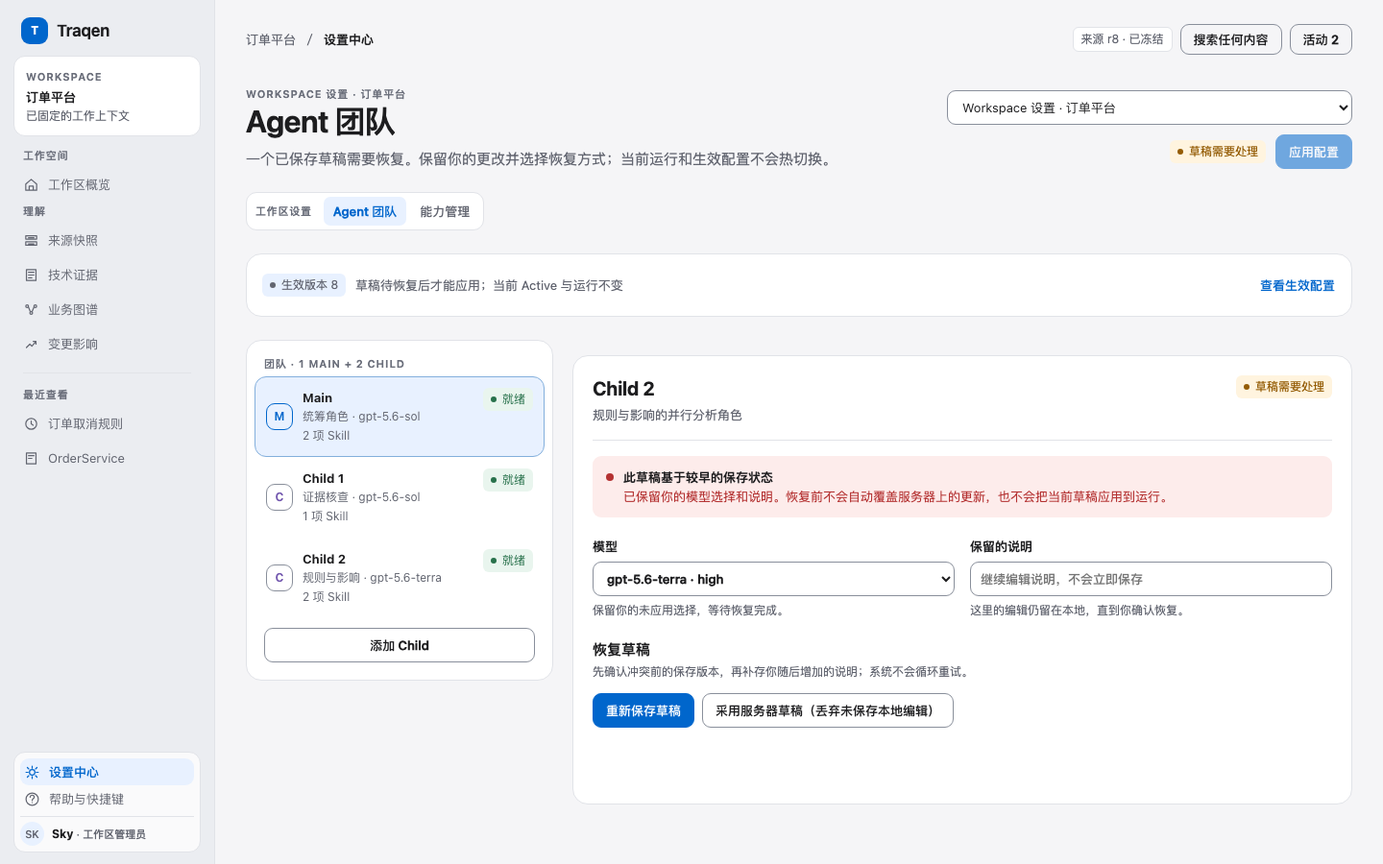
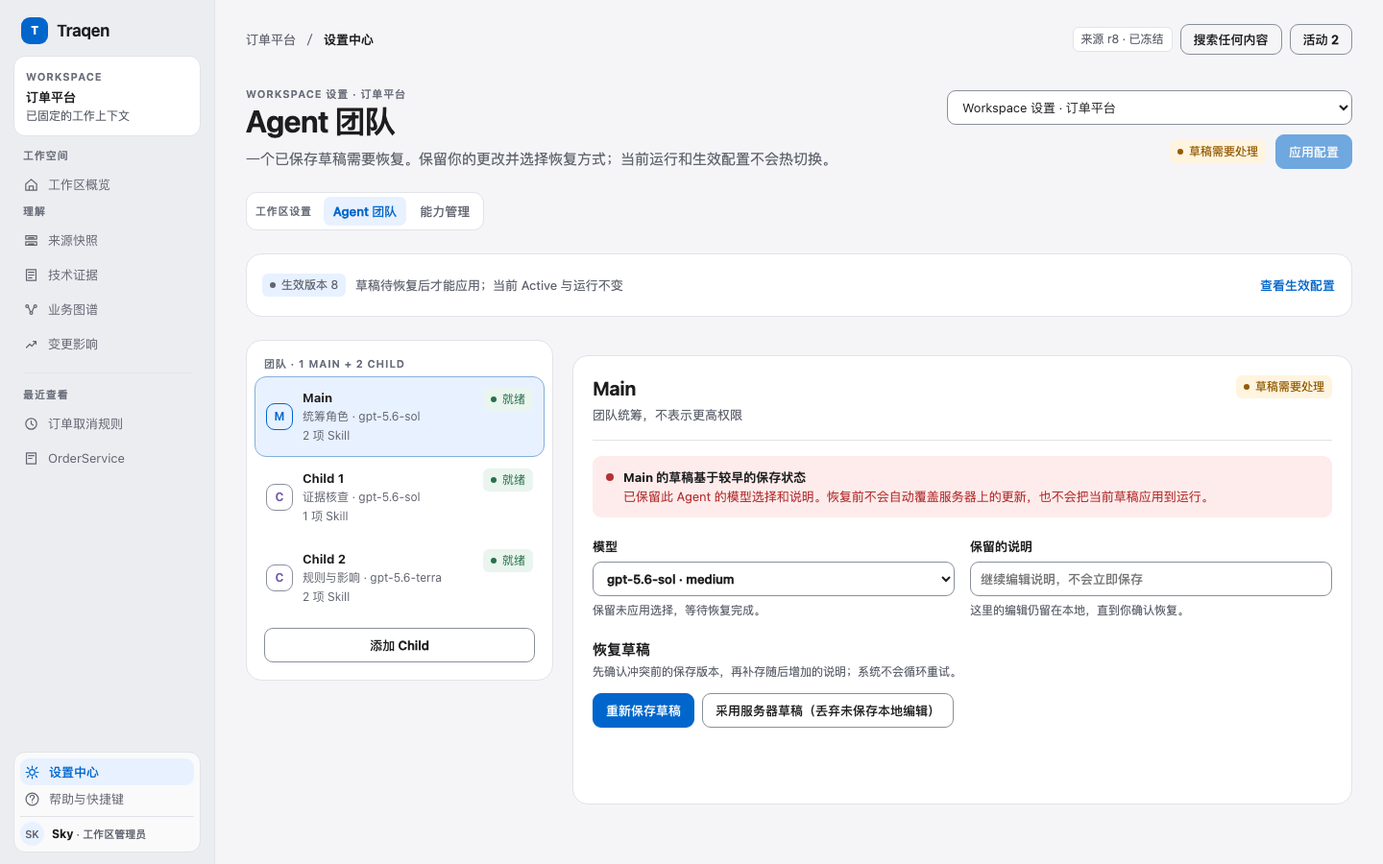
fix(f006): preserve conflict state across read-only views
Why: unresolved fixture conflicts must keep their selected-agent context, recovery data, and Apply guard through version, capability, team, and refresh paths.

diff --git a/docs/design/F006-workspace-capability-settings/ux-v1.0/assets/prototype.html b/docs/design/F006-workspace-capability-settings/ux-v1.0/assets/prototype.html
@@ -163,17 +163,17 @@
       function teamCards() { return `<section class="panel agent-list"><div class="agent-section-title">团队 · 1 Main + 2 Child</div>${Object.entries(agentConfigs).map(([id, base]) => { const agent = agentConfig(id); const kind = agent.readiness === '就绪' ? 'success' : 'warning'; return `<button class="agent-card ${state.selected === id ? 'selected':''}" data-agent="${id}" data-skill-count="${agent.skills.length}" ${id === 'child-2' ? 'data-testid="agent-child-2"':''}><span class="agent-icon">${id === 'main'?'M':'C'}</span><span><b>${agent.name}</b><small>${agent.role} · ${agent.model}</small><small>${agent.skills.length} 项 Skill</small></span>${pill(kind, agent.readiness)}</button>`; }).join('')}<button class="btn" style="margin:10px;width:calc(100% - 20px)">添加 Child</button></section>`; }
       function inspector() { const agent = agentConfig(); const isChild2 = state.selected === 'child-2'; const hasLegacyIssue = state.selected === 'child-1' && state.legacyIssue; const skillDescription = { 'repository-map': ['已挂载执行器 · 仅订单平台', 'Workspace 可用性是上限，不会自动配给其他 Agent。'], 'impact-summary': ['显式授权；创建本地能力不会自动勾选这里。', '本地能力可用不等于任何 Agent 已获授权。'], 'semantic-review': ['全局继承；若失效仍可在此撤销。', '生命周期变更会在这里标记为需要处理。'], 'legacy-lint': ['执行器映射已缺失；这是可撤销的历史授权。', '撤销只会修改 Child 1 的草稿授权。'] }; return `<section class="panel detail" aria-label="${agent.name} 配置详情"><div class="detail-head"><div><h2>${agent.name}</h2><p>${isChild2 ? '规则与影响的并行分析角色' : state.selected === 'main' ? '团队统筹，不表示更高权限' : '证据核查的并行分析角色'}</p></div>${pill(agent.readiness === '就绪' ? 'success':'warning', agent.readiness)}</div>${hasLegacyIssue ? `<div class="notice danger" data-testid="legacy-authorization" style="margin-top:16px"><span class="dot"></span><div><strong>legacy-lint 授权需要处理</strong><br>该执行器映射已不可用；历史授权仍在 Child 1 草稿中，必须在此明确撤销或替换。</div><button class="btn danger" id="revoke-legacy" style="margin-left:auto">撤销授权</button></div>` : ''}<div class="fields"><label>模型 <select id="agent-model" data-testid="agent-model"><option ${agent.model === 'gpt-5.6-sol'?'selected':''}>gpt-5.6-sol · medium</option><option ${agent.model === 'gpt-5.6-terra'?'selected':''}>gpt-5.6-terra · high</option></select><span>经 CLI 账号 codex-team 已验证；不回退到隐式默认模型。</span></label><label>账号状态 <input value="codex-team · CLI 已登录" readonly><span>账号登录与模型 pin 会在应用前由服务端复核；这里不展示认证凭据。</span></label></div><div class="grant-block"><h3>显式 Skill 授权</h3><p>Workspace 可用性是上限；新 Child 不复制其他 Agent 的授权。</p><div class="grant-list">${['repository-map','impact-summary','semantic-review','legacy-lint'].map(skill => `<label class="check-row"><input type="checkbox" ${agent.skills.includes(skill) ? 'checked':''}><span><b>${skill}</b><br>${skillDescription[skill][0]}</span></label>`).join('')}</div></div></section>`; }
       function recoveryNotice() { if (!state.recovery) return ''; const server = state.recovery === 'server'; return `<div class="notice success" data-testid="recovery-success" style="margin-top:16px"><span class="dot"></span><div><strong>${server ? '已采用服务器草稿，可以继续编辑并应用' : '草稿已恢复，可以继续编辑并应用'}</strong><br>${server ? '未保存的本地 M3 说明已按你的选择丢弃；没有新增业务写入。' : 'M2 已确认，M3 已恰好补存一次；当前运行和已生效版本未改变。'}</div></div>`; }
-      function team() { return `${head('Workspace 设置 · 订单平台', 'Agent 团队', '正在编辑草稿。自动保存与“应用配置”是两件事；当前运行不会热切换。', `${scope()}${pill('success','草稿已保存 · 10:42').replace('class="badge success"', 'class="badge success" data-testid="draft-saved"')}<span class="apply-context"><span class="apply-scope" data-testid="apply-scope">仅订单平台；仅影响之后的新分析，不改变其他 Workspace 或已有运行。</span><button class="btn primary" id="apply" data-testid="apply-config">应用配置</button></span>`)}${workspaceSettingsNav('team')}${recoveryNotice()}<div class="summary-row"><div class="summary-copy">${pill('blue','生效版本 8')}<span>今天 10:30 · 有 3 项未应用更改</span></div><button class="btn link" data-scene="versions" data-testid="versions-entry">查看生效配置</button></div><section class="content team-grid">${teamCards()}${inspector()}</section>`; }
+      function team() { if (state.conflict) return conflict(); return `${head('Workspace 设置 · 订单平台', 'Agent 团队', '正在编辑草稿。自动保存与“应用配置”是两件事；当前运行不会热切换。', `${scope()}${pill('success','草稿已保存 · 10:42').replace('class="badge success"', 'class="badge success" data-testid="draft-saved"')}<span class="apply-context"><span class="apply-scope" data-testid="apply-scope">仅订单平台；仅影响之后的新分析，不改变其他 Workspace 或已有运行。</span><button class="btn primary" id="apply" data-testid="apply-config">应用配置</button></span>`)}${workspaceSettingsNav('team')}${recoveryNotice()}<div class="summary-row"><div class="summary-copy">${pill('blue','生效版本 8')}<span>今天 10:30 · 有 3 项未应用更改</span></div><button class="btn link" data-scene="versions" data-testid="versions-entry">查看生效配置</button></div><section class="content team-grid">${teamCards()}${inspector()}</section>`; }
       function empty() { const placeholder = (id, name, role, detail) => `<button class="agent-card ${id === 'main' ? 'selected':''}" data-testid="empty-${id}"><span class="agent-icon">${id === 'main'?'M':'C'}</span><span><b>${name}</b><small>${role}</small><small>尚未选择模型 · 0 项 Skill</small></span>${pill('warning','需要配置')}</button>`; return `${head('Workspace 设置 · 订单平台', 'Agent 团队', '先在实际团队配置中为 Main 与至少一个 Child 选择模型；不会静默填入默认值。', `${scope()}${pill('warning','不能应用配置')}`)}${workspaceSettingsNav('team')}<div class="summary-row"><div class="summary-copy">${pill('blue','草稿已保存')}<span>初始草稿 · 尚未创建可运行版本</span></div><button class="btn link" data-scene="models">前往模型</button></div><section class="content team-grid"><section class="panel agent-list"><div class="agent-section-title">团队 · 1 Main + 1 Child（最小结构）</div>${placeholder('main','Main','统筹角色','')} ${placeholder('child-1','Child 1','证据核查','')}<button class="btn" style="margin:10px;width:calc(100% - 20px)">添加 Child</button></section><section class="panel detail" aria-label="初始 Agent 配置"><div class="detail-head"><div><h2>Main 尚未完成配置</h2><p>从实际账号与模型中选择；Child 的授权不会由 Main 自动复制。</p></div>${pill('warning','需要模型')}</div><div class="fields"><label>模型 <select disabled><option>先在模型页添加并验证</option></select><span>未选择模型，不会回退到隐式默认值。</span></label><label>账号状态 <input value="尚未选择账号" readonly><span>保存引用与 CLI 检查分开。</span></label></div><div class="grant-block"><h3>显式 Skill 授权</h3><p>等待模型配置完成后再逐项选择；当前为 0 项。</p></div><div class="notice" style="margin-top:20px"><span class="dot"></span><div><strong>应用配置仍不可用</strong><br>先完成 Main 和至少一个 Child 的模型配置。草稿可以保存，但不会创建运行。</div></div></section></section>`; }
       function accounts() { return `${head('全局设置', '账号', '保存的是认证引用与 CLI 状态摘要；不显示密钥，也不在 Traqen 内发起 OAuth 登录。', scope('global'))}${globalSettingsNav('accounts')}<section class="content form-grid"><div class="panel pad"><div class="section-head"><h2>添加 API Key 引用</h2>${pill('blue','全局资产')}</div><div class="form-stack"><label>账号名称 <input value="OpenAI 团队账号"></label><label>Secret 引用 <input value="env://OPENAI_API_KEY" aria-invalid="true"><span class="error-text">未发现该环境变量；引用已保留，未显示密钥值。</span></label><p class="field-help">仅支持 <code>env://VARIABLE_NAME</code>；保存引用与连接检查分开。</p><button class="btn primary">保存引用</button></div></div><div class="panel pad"><div class="section-head"><h2>OAuth 状态</h2>${pill('warning','需要处理')}</div><div class="timeline"><div class="event"><i></i><div><b>Claude CLI</b><p>等待 CLI 登录。请在受支持的 CLI 完成登录后回到这里检查。</p></div></div><div class="event"><i></i><div><b>Codex CLI</b><p>检查失败 · 找不到本地 CLI。重试不会改变认证状态。</p></div></div></div><button class="btn" style="margin-top:16px">重新检查</button></div></section>`; }
       function models() { return `${head('全局设置', 'CLI 模型', '只允许受支持的 CLI 执行；账号、模型 pin 和就绪性不足时不能进入 Agent 选择器。', scope('global'))}${globalSettingsNav('models')}<section class="content panel pad"><div class="section-head"><h2>模型目录</h2><button class="btn">添加模型</button></div><table class="table"><thead><tr><th>名称</th><th>CLI / 模型</th><th>状态</th></tr></thead><tbody><tr><td><b>订单分析</b><small>codex-team</small></td><td>Codex · gpt-5.6-sol<br><small>medium</small></td><td>${pill('success','READY')}</td></tr><tr><td><b>规则核查</b><small>claude-team</small></td><td>Claude · 未固定模型<br><small>模型 pin 缺失</small></td><td>${pill('warning','需要处理')}</td></tr></tbody></table><div class="notice danger" style="margin-top:15px"><span class="dot"></span><div><strong>验证失败</strong><br>“规则核查”保留在目录中，不会悄悄清空或替换当前选择。</div></div></section>`; }
       function skills() { return `${head('全局设置', 'Skill', 'Skill 是独立的全局资产；新增时只能选择实际挂载的执行器，不能直接形成 Agent 授权。', scope('global'))}${globalSettingsNav('skills')}<section class="content form-grid"><section class="panel pad"><div class="section-head"><h2>Skill 执行器</h2>${pill('purple','服务端映射')}</div><p class="subtle">能力名称、执行器映射和验证状态都在此管理；团队页只选择已可用的 Skill。</p><div class="grant-list"><label>能力名称 <input value="semantic-review"></label><label>已挂载执行器 <select><option>semantic-reviewer · v3.2</option></select><span>映射与验证结果由服务端生成。</span></label><label class="check-row"><input type="checkbox"><span><b>我已核对执行器</b><br>只是创建前确认；不替代服务器验证。</span></label></div><button class="btn primary" style="margin-top:16px">添加 Skill</button></section><section class="panel pad"><div class="section-head"><h2>已挂载 Skill</h2>${pill('success','2 可用')}</div><div class="timeline"><div class="event"><i></i><div><b>repository-map</b><p>映射有效 · 可在 Workspace 范围内授权。</p></div></div><div class="event"><i></i><div><b>semantic-review</b><p>semantic-reviewer v3.2 · 由团队显式授权。</p></div></div></div></section></section>`; }
-      function capabilities() { const card = (title,count,body) => `<section class="panel group-card"><h3>${title}<span>${count}</span></h3>${body}</section>`; return `${head('Workspace 设置 · 订单平台', '能力管理', '四组可用范围与每个 Agent 的显式授权分开管理。', `${scope()}<button class="btn primary">应用配置</button>`)}${workspaceSettingsNav('capabilities')}<section class="content"><div class="quad">${card('继承且可用','2',`<div class="cap-row"><b>repository-map</b><p>全局启用 · Workspace 未禁用</p><button class="btn link inline">在此 Workspace 禁用</button></div><div class="cap-row"><b>semantic-review</b><p>全局启用 · 已授权给 Child 2</p></div>`)}${card('本 Workspace 已禁用','1',`<div class="cap-row"><b>release-notes</b><p>恢复只改变可用范围，不自动恢复 Agent 授权。</p><button class="btn link inline">恢复继承</button></div>`)}${card('全局不可用','1',`<div class="cap-row"><b>legacy-lint</b><p>执行器映射缺失 · Child 1 的历史授权需要在团队详情中明确处理。</p><button class="btn link inline" data-action="open-legacy-issue">前往 Child 1 处理授权</button></div>`)}${card('Workspace 本地','1',`<div class="cap-row"><b>order-language</b><p>仅订单平台 · 已挂载执行器</p><button class="btn link inline">编辑本地 Skill</button></div><button class="btn" style="margin-top:14px">添加本地 Skill</button>`)}</div></section>`; }
-      function conflictInspector() { return `<section class="panel detail" aria-label="Child 2 草稿恢复"><div class="detail-head"><div><h2>Child 2</h2><p>规则与影响的并行分析角色</p></div>${pill('warning','草稿需要处理')}</div><div class="notice danger" style="margin-top:16px"><span class="dot"></span><div><strong>此草稿基于较早的保存状态</strong><br>已保留你的模型选择和说明。恢复前不会自动覆盖服务器上的更新，也不会把当前草稿应用到运行。</div></div><div class="fields"><label>模型 <select id="m2-model"><option>gpt-5.6-terra · high</option></select><span>保留你的未应用选择，等待恢复完成。</span></label><label>保留的说明 <input id="m3-note" value="${esc(state.m3)}" placeholder="继续编辑说明，不会立即保存"><span>这里的编辑仍留在本地，直到你确认恢复。</span></label></div><div class="grant-block"><h3>恢复草稿</h3><p>先确认冲突前的保存版本，再补存你随后增加的说明；系统不会循环重试。</p><div style="margin-top:12px"><button class="btn primary" id="conflict-retry" data-testid="conflict-retry">重新保存草稿</button><button class="btn" id="conflict-server" data-testid="conflict-server" style="margin-left:8px">采用服务器草稿（丢弃未保存本地编辑）</button></div></div></section>`; }
-      function conflict() { return `${head('Workspace 设置 · 订单平台', 'Agent 团队', '一个已保存草稿需要恢复。保留你的更改并选择恢复方式；当前运行和生效配置不会热切换。', `${scope()}${pill('warning','草稿需要处理')}<button class="btn primary" disabled data-testid="conflict-apply">应用配置</button>`)}${workspaceSettingsNav('team')}<div class="summary-row"><div class="summary-copy">${pill('blue','生效版本 8')}<span>草稿待恢复后才能应用；当前 Active 与运行不变</span></div><button class="btn link" data-scene="versions">查看生效配置</button></div><section class="content team-grid">${teamCards()}${conflictInspector()}</section>`; }
+      function capabilities() { const card = (title,count,body) => `<section class="panel group-card"><h3>${title}<span>${count}</span></h3>${body}</section>`; const apply = state.conflict ? `<button class="btn primary" id="apply" data-testid="capabilities-conflict-apply" disabled>应用配置</button>` : `<button class="btn primary" id="apply">应用配置</button>`; const conflictNotice = state.conflict ? `<div class="notice danger" data-testid="capabilities-conflict-notice"><span class="dot"></span><div><strong>团队草稿仍待恢复</strong><br>可查看能力范围；请回到 Agent 团队选择恢复方式后再应用配置。</div></div>` : ''; return `${head('Workspace 设置 · 订单平台', '能力管理', '四组可用范围与每个 Agent 的显式授权分开管理。', `${scope()}${apply}`)}${workspaceSettingsNav('capabilities')}${conflictNotice}<section class="content"><div class="quad">${card('继承且可用','2',`<div class="cap-row"><b>repository-map</b><p>全局启用 · Workspace 未禁用</p><button class="btn link inline">在此 Workspace 禁用</button></div><div class="cap-row"><b>semantic-review</b><p>全局启用 · 已授权给 Child 2</p></div>`)}${card('本 Workspace 已禁用','1',`<div class="cap-row"><b>release-notes</b><p>恢复只改变可用范围，不自动恢复 Agent 授权。</p><button class="btn link inline">恢复继承</button></div>`)}${card('全局不可用','1',`<div class="cap-row"><b>legacy-lint</b><p>执行器映射缺失 · Child 1 的历史授权需要在团队详情中明确处理。</p><button class="btn link inline" data-action="open-legacy-issue">前往 Child 1 处理授权</button></div>`)}${card('Workspace 本地','1',`<div class="cap-row"><b>order-language</b><p>仅订单平台 · 已挂载执行器</p><button class="btn link inline">编辑本地 Skill</button></div><button class="btn" style="margin-top:14px">添加本地 Skill</button>`)}</div></section>`; }
+      function conflictInspector() { const agent = agentConfig(); const role = state.selected === 'main' ? '团队统筹，不表示更高权限' : state.selected === 'child-2' ? '规则与影响的并行分析角色' : '证据核查的并行分析角色'; const model = agent.model === 'gpt-5.6-terra' ? 'gpt-5.6-terra · high' : 'gpt-5.6-sol · medium'; return `<section class="panel detail" aria-label="${agent.name} 草稿恢复"><div class="detail-head"><div><h2>${agent.name}</h2><p>${role}</p></div>${pill('warning','草稿需要处理')}</div><div class="notice danger" style="margin-top:16px"><span class="dot"></span><div><strong>${agent.name} 的草稿基于较早的保存状态</strong><br>已保留此 Agent 的模型选择和说明。恢复前不会自动覆盖服务器上的更新，也不会把当前草稿应用到运行。</div></div><div class="fields"><label>模型 <select id="m2-model"><option>${model}</option></select><span>保留未应用选择，等待恢复完成。</span></label><label>保留的说明 <input id="m3-note" value="${esc(state.m3)}" placeholder="继续编辑说明，不会立即保存"><span>这里的编辑仍留在本地，直到你确认恢复。</span></label></div><div class="grant-block"><h3>恢复草稿</h3><p>先确认冲突前的保存版本，再补存随后增加的说明；系统不会循环重试。</p><div style="margin-top:12px"><button class="btn primary" id="conflict-retry" data-testid="conflict-retry">重新保存草稿</button><button class="btn" id="conflict-server" data-testid="conflict-server" style="margin-left:8px">采用服务器草稿（丢弃未保存本地编辑）</button></div></div></section>`; }
+      function conflict() { return `${head('Workspace 设置 · 订单平台', 'Agent 团队', '一个已保存草稿需要恢复。保留你的更改并选择恢复方式；当前运行和生效配置不会热切换。', `${scope()}${pill('warning','草稿需要处理')}<button class="btn primary" disabled data-testid="conflict-apply">应用配置</button>`)}${workspaceSettingsNav('team')}<div class="summary-row"><div class="summary-copy">${pill('blue','生效版本 8')}<span>草稿待恢复后才能应用；当前 Active 与运行不变</span></div><button class="btn link" data-scene="versions" data-testid="conflict-versions-entry">查看生效配置</button></div><section class="content team-grid">${teamCards()}${conflictInspector()}</section>`; }
       function lifecycle() { return `${head('全局设置', '能力生命周期', '停用或删除前先取得当前影响；取消不会写入，完成后历史版本不被篡改。', scope('global'))}<section class="content panel pad"><div class="section-head"><div><h2>semantic-review</h2><p class="subtle">Skill · 已挂载执行器 semantic-reviewer v3.2</p></div>${pill('success','ACTIVE')}</div><div class="versions"><div><div class="notice"><span class="dot"></span><div><strong>将影响 2 个 Workspace / 3 项授权</strong><br>服务端影响清单成功加载后才允许继续；名称确认是对当前对象的确认，不是通用确认。</div></div><table class="table" style="margin-top:16px"><thead><tr><th>Workspace</th><th>Agent</th><th>现状</th></tr></thead><tbody><tr><td>订单平台</td><td>Child 2</td><td>授权有效</td></tr><tr><td>客户运营</td><td>Main / Child 1</td><td>授权有效</td></tr></tbody></table></div><div class="panel pad"><h3>生命周期操作</h3><p class="subtle" style="margin-top:5px">停用后，受影响团队显示“需要处理”，仍可撤销失效授权。</p><button class="btn danger" id="open-lifecycle" style="margin-top:17px">停用能力</button><p class="field-help" style="margin-top:16px">焦点会在取消后回到这一行的原操作。</p></div></div></section>`; }
       function mcp() { return `${head('全局设置', 'MCP', 'MCP 接入暂不推进。历史配置仅供查看，不代表当前可执行能力。', scope('global'))}${globalSettingsNav('mcp')}<section class="content panel pad" data-testid="mcp-paused"><div class="section-head"><div><h2>MCP 已暂停</h2><p class="subtle">本期没有创建、导入、检测、连接、激活或新增授权入口。</p></div>${pill('warning','已暂停')}</div><div class="notice"><span class="dot"></span><div><strong>不显示 READY 或“已连接”</strong><br>受限与不支持不是加载中；不能让历史记录暗示当前可以执行。</div></div><table class="table" style="margin-top:18px"><thead><tr><th>历史引用</th><th>范围</th><th>状态</th><th></th></tr></thead><tbody><tr><td><b>search</b><small>MCP 历史身份保留</small></td><td>订单平台 · Child 1</td><td>${pill('warning','只读 / 暂停')}</td><td class="row-actions"><button class="btn" data-scene="team">到团队移除授权</button></td></tr></tbody></table></section>`; }
-      function versions() { return `${head('Workspace 设置 · 订单平台', '当前生效配置', '草稿已保存不等于已应用；每次运行固定读取创建时的版本。', `${scope()}<button class="btn link" data-scene="team" data-testid="versions-return">返回团队编辑</button>`)}${workspaceSettingsNav('team')}<section class="content versions"><section class="panel pad"><div class="section-head"><div><span class="eyebrow">当前生效</span><div class="version-number">版本 8</div><p class="subtle">今天 10:30 · cfg_01HX…9M</p></div>${pill('success','已生效')}</div><div class="key-value"><span>Main</span><b>gpt-5.6-sol · 2 项 Skill</b></div><div class="key-value"><span>Child 1</span><b>gpt-5.6-sol · 1 项 Skill</b></div><div class="key-value"><span>Child 2</span><b>gpt-5.6-sol · 1 项 Skill</b></div><div class="notice" style="margin-top:16px"><span class="dot"></span><div><strong>仅影响之后的新分析</strong><br>运行 RUN-049 继续固定使用版本 7；刷新和恢复不会换成当前 Active。</div></div></section><aside class="panel pad"><h2>草稿</h2><p class="subtle" style="margin-top:5px">已保存 · 3 项待应用更改</p><div class="timeline"><div class="event"><i></i><div><b>Child 2 模型</b><p>gpt-5.6-sol → gpt-5.6-terra</p></div></div><div class="event"><i></i><div><b>Skill 授权</b><p>新增 impact-summary；草稿合计 2 项 Skill</p></div></div></div><p class="field-help" style="margin-top:16px">这是只读版本对照。若要应用草稿，请返回团队编辑页。</p><button class="btn primary" data-scene="team" data-testid="versions-return" style="margin-top:12px">返回团队编辑</button></aside></section>`; }
+      function versions() { const conflictReadOnly = state.conflict; const draftStatus = conflictReadOnly ? '草稿待恢复 · 本地编辑仍保留' : '已保存 · 3 项待应用更改'; const draftNotice = conflictReadOnly ? `<div class="notice danger" data-testid="versions-conflict-notice" style="margin-top:14px"><span class="dot"></span><div><strong>草稿仍待恢复</strong><br>此处只读查看不会解除冲突；请返回团队选择恢复方式。</div></div>` : ''; const returnLabel = conflictReadOnly ? '返回团队恢复草稿' : '返回团队编辑'; return `${head('Workspace 设置 · 订单平台', '当前生效配置', conflictReadOnly ? '草稿仍待恢复；此页只读查看当前 Active 与固定运行，不会解除冲突。' : '草稿已保存不等于已应用；每次运行固定读取创建时的版本。', `${scope()}<button class="btn link" data-scene="team" data-testid="versions-return">${returnLabel}</button>`)}${workspaceSettingsNav('team')}<section class="content versions"><section class="panel pad"><div class="section-head"><div><span class="eyebrow">当前生效</span><div class="version-number">版本 8</div><p class="subtle">今天 10:30 · cfg_01HX…9M</p></div>${pill('success','已生效')}</div><div class="key-value"><span>Main</span><b>gpt-5.6-sol · 2 项 Skill</b></div><div class="key-value"><span>Child 1</span><b>gpt-5.6-sol · 1 项 Skill</b></div><div class="key-value"><span>Child 2</span><b>gpt-5.6-sol · 1 项 Skill</b></div><div class="notice" style="margin-top:16px"><span class="dot"></span><div><strong>仅影响之后的新分析</strong><br>运行 RUN-049 继续固定使用版本 7；刷新和恢复不会换成当前 Active。</div></div></section><aside class="panel pad"><h2>${conflictReadOnly ? '草稿恢复状态' : '草稿'}</h2><p class="subtle" style="margin-top:5px">${draftStatus}</p>${draftNotice}<div class="timeline"><div class="event"><i></i><div><b>Child 2 模型</b><p>gpt-5.6-sol → gpt-5.6-terra</p></div></div><div class="event"><i></i><div><b>Skill 授权</b><p>新增 impact-summary；草稿合计 2 项 Skill</p></div></div></div><p class="field-help" style="margin-top:16px">${conflictReadOnly ? '这是只读版本对照。请返回团队选择恢复方式；查看不会解除草稿冲突。' : '这是只读版本对照。若要应用草稿，请返回团队编辑页。'}</p><button class="btn primary" data-scene="team" data-testid="versions-return" style="margin-top:12px">${returnLabel}</button></aside></section>`; }
       function f003() { return `${head('F003 · 分析准备', '确认将使用的 F006 生效配置', '这是跨 Feature 交互示意：真实材料绑定、启动 API 与持久确认机制尚未接线。', '<button class="btn primary" id="f003-confirm">确认配置并继续</button>')}<section class="content f003-grid"><section class="panel pad"><div class="section-head"><div><h2>订单取消规则的调查准备</h2><p class="subtle">首次使用或配置版本变化时，要求人工确认。</p></div>${pill('blue','版本 8')}</div><div class="checklist"><div><i>✓</i><span><b>Main · gpt-5.6-sol</b><br><span class="subtle">已固定给本次准备摘要；不是实时目录。</span></span></div><div><i>✓</i><span><b>Child 1 / Child 2</b><br><span class="subtle">模型与能力数量可见，敏感认证内容不展开。</span></span></div><div><i>✓</i><span><b>账号就绪性</b><br><span class="subtle">服务端应在真实启动前再次校验，原型不声称检查通过。</span></span></div></div></section><aside class="panel pad" data-testid="f003-fixture-only"><span class="badge warning">明确限制</span><h2 style="margin-top:12px">不是 AC-C2 完成声明</h2><p class="subtle" style="margin-top:7px">这个示意不会读取新材料、不会复活 F001 的旧入口、不会创建 Run，也不能证明 F003 接线已完成。</p><button class="btn" id="simulate-head-conflict" style="margin-top:16px">示意：配置 Head 已变化</button></aside></section>`; }
       function content() { return ({empty, accounts, models, skills, team, capabilities, conflict, lifecycle, mcp, versions, f003}[state.scene] || team)(); }
       function bind() {
@@ -188,7 +188,7 @@
         $('#open-lifecycle')?.addEventListener('click', event => { state.lifecycleInvoker = event.currentTarget; $('#lifecycle-dialog').showModal(); $('#confirm-name').focus(); });
         $('#f003-confirm')?.addEventListener('click', () => $('#f003-dialog').showModal());
         $('#simulate-head-conflict')?.addEventListener('click', () => { log('f003-fixture', '只切换示意状态；没有创建 Run', false); alert('配置 Head 已变化：保留调查输入，刷新摘要后重新确认。'); });
-        $('#apply')?.addEventListener('click', () => log('activation', '团队草稿 → 新版本（仅演示）', true));
+        $('#apply')?.addEventListener('click', () => { if (state.conflict) { log('activation-blocked', '草稿待恢复，应用配置未执行', false); return; } log('activation', '团队草稿 → 新版本（仅演示）', true); });
       }
       function render() { applyDesktopScale(); $('#app').innerHTML = content(); $('#scene-select').value = state.scene; bind(); syncDesktopStageHeight(); updateLog(); }
       function navigate(scene) { const previous = state.scene; const returningFromVersions = previous === 'versions' && scene === 'team'; if (previous === 'team' && scene === 'versions') state.teamScroll = scrollY; state.scene = scenes[scene] ? scene : 'team'; if (state.scene === 'conflict' && !state.conflict) { state.conflict = true; state.recovery = ''; persist(); log('draft-save', 'M2 冻结快照 → 409 冲突', true); } history.replaceState(null, '', `#${state.scene}`); render(); if (returningFromVersions) { const restoreScroll = state.teamScroll || 0; requestAnimationFrame(() => requestAnimationFrame(() => scrollTo(0, restoreScroll))); } }

diff --git a/docs/design/F006-workspace-capability-settings/ux-v1.0/README.md b/docs/design/F006-workspace-capability-settings/ux-v1.0/README.md
@@ -51,19 +51,19 @@ source_design: ../README.md
 | S03 模型与 Skill | [模型 · 瓷白](assets/previews/03-models-light.png) / [石墨](assets/previews/03-models-dark.png)；[Skill · 瓷白](assets/previews/03-skills-light.png) / [石墨](assets/previews/03-skills-dark.png) | 两个独立页面，均为双主题 · 1440×900 |
 | S04 完整团队 | 上方四张主图；另有 [瓷白](assets/previews/18-team-laptop-bottom-light.png) / [石墨](assets/previews/19-team-laptop-bottom-dark.png) 的滚动到底部证据，1400×860 与 [1280×800](assets/previews/16-team-compact-light.png) 的 1×可读性检查，以及 [1920×1080](assets/previews/17-team-external-dark.png) 的 1.2×画布检查 | 双主题 · 一个逻辑画布、滚动与 4 个导出视口 |
 | S05 能力管理 | [四分组与范围](assets/previews/08-capabilities-light.png)；[Child 1 详情内可撤销的 legacy-lint 历史授权](assets/previews/08-legacy-authorization-light.png) | 瓷白 · 1440×900 |
-| S06 草稿冲突 | [团队详情内的恢复状态](assets/previews/09-conflict-light.png) / [石墨对照](assets/previews/10-conflict-dark.png)；技术写入证据仅在壳外 fixture 日志与验证记录中 | 双主题 · 1440×900 |
+| S06 草稿冲突 | [团队详情内的恢复状态](assets/previews/09-conflict-light.png) / [石墨对照](assets/previews/10-conflict-dark.png)；两主题都让选中 Agent 与右侧恢复详情一致，技术写入证据仅在壳外 fixture 日志与验证记录中 | 双主题 · 1440×900 |
 | S07 生命周期 | [已打开的名称确认弹窗 · 瓷白](assets/previews/11-lifecycle-confirm-light.png) / [石墨](assets/previews/12-lifecycle-confirm-dark.png) | 双主题 · 1440×900 |
 | S08 MCP 暂停 | [瓷白：只读历史项与暂停边界](assets/previews/13-mcp-light.png) / [石墨](assets/previews/13-mcp-dark.png) | 双主题 · 1440×900 |
 | S09 生效版本 | [草稿、Active、Run 版本分离](assets/previews/14-versions-light.png) | 瓷白 · 1440×900 |
 | S10 F003 配置确认 | [明确未接线的确认示意](assets/previews/15-f003-dark.png) | 石墨 · 1440×900 |
 
-错误表单（S02 与 S03 两个独立页面）、草稿恢复（S06）、**已打开的**命名确认弹窗（S07）与 MCP 暂停（S08）均有双主题浏览器截图。S06 的用户工作面只表达保留、更改与恢复选择；模拟请求版本和写入序列只留在壳外 fixture 证据中。
+错误表单（S02 与 S03 两个独立页面）、草稿恢复（S06）、**已打开的**命名确认弹窗（S07）与 MCP 暂停（S08）均有双主题浏览器截图。S06 的用户工作面只表达保留、更改与恢复选择，选中名单项与恢复详情同源；模拟请求版本和写入序列只留在壳外 fixture 证据中。
 
 ## 可操作范围与验证
 
 `prototype.html` 的场景选择器、主题切换、Agent 选择、Child 2 模型编辑、409 恢复、生命周期确认/取消和 F003 提示均可操作。调试控制显式标注“设计演示数据”，位于产品壳外。
 
-`render.mjs` 用一次性 loopback 静态服务器和临时 headless Chrome profile 生成图片，并写入 [verification.json](assets/verification.json)。本次作者验证结果：25 张截图、0 个浏览器页面错误，以及以下 14 项通过项：
+`render.mjs` 用一次性 loopback 静态服务器和临时 headless Chrome profile 生成图片，并写入 [verification.json](assets/verification.json)。本次作者验证结果：25 张截图、0 个浏览器页面错误，以及以下 15 项通过项：
 
 1. S01–S10 渲染时都有一个页面 h1，页面与控件没有横向溢出。
 2. S04 使用一个 1440×900 逻辑画布：1440×900 为 1×，1920×1080 为 1.2×且左右余量 96px，2560×1440 为 1.6×且左右余量 128px；1400×860 与 1280×800 的普通窗口保持 1×，不是第二套桌面设计。
@@ -76,9 +76,10 @@ source_design: ../README.md
 9. 切主题与刷新都保留选中的 Child，且主题动作的模拟业务写入为零。
 10. 修改 Child 2 只产生一次 fixture 草稿写入；Main 和另一 Workspace 的 sentinel 不变。
 11. M2 409 → M3 本地编辑 → 重试依次得到 `M2(409)`、`M2(200)`、`M3(200)`，随后清除阻断横幅并回到可编辑、Apply 可用的团队页；采用服务器草稿会先明示丢弃 M3、清除冲突且不增加业务写入。
-12. 生效版本面为只读，没有 Apply；从正常团队入口进入并返回后，保留 Child 2 选择和滚动位置、团队页仍可编辑，且全程零业务写入。
-13. 取消生命周期确认会关闭具名弹窗、把焦点返还原操作行，并产生零 fixture 业务写入。
-14. 原生 button/input/select/dialog 可获得键盘焦点；Escape 能关闭影响确认弹窗而不形成焦点陷阱。
+12. 未恢复的冲突在两主题中都令选中 Agent 与恢复详情一致；经生效版本、能力管理、直接回团队或刷新后仍保留 M3 与恢复入口，没有可执行的 Apply、自动写入或 activation；只有显式恢复才清除冲突。
+13. 生效版本面为只读，没有 Apply；从正常团队入口进入并返回后，保留 Child 2 选择和滚动位置、团队页仍可编辑，且全程零业务写入。
+14. 取消生命周期确认会关闭具名弹窗、把焦点返还原操作行，并产生零 fixture 业务写入。
+15. 原生 button/input/select/dialog 可获得键盘焦点；Escape 能关闭影响确认弹窗而不形成焦点陷阱。
 
 复现（替换为本机 Chrome 绝对路径）：
 
